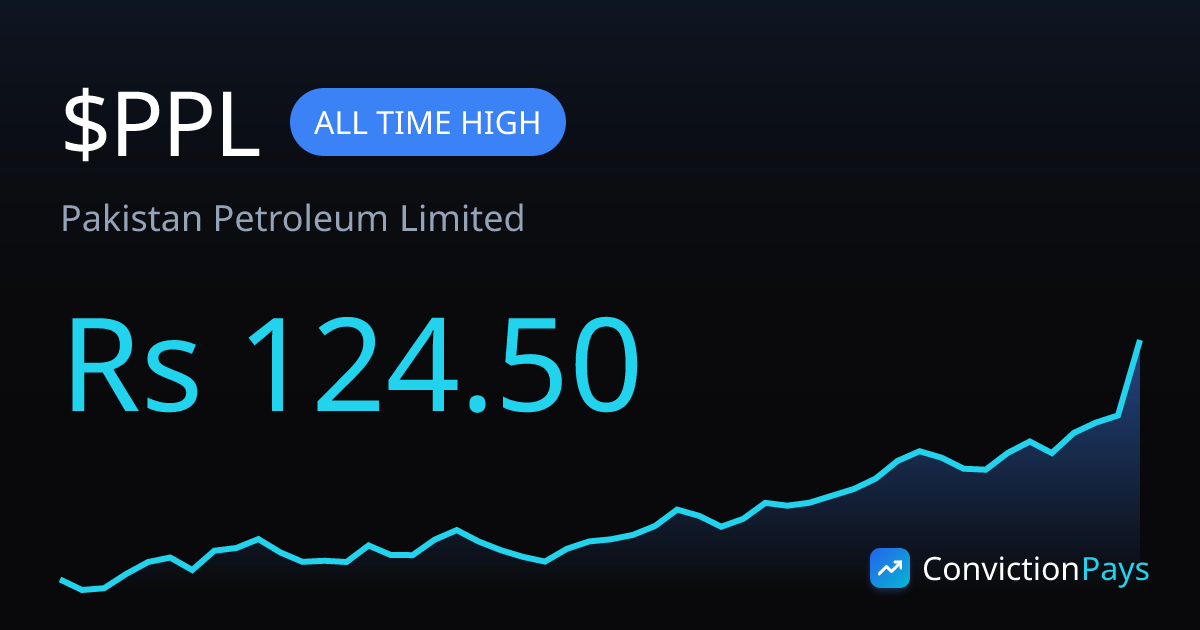
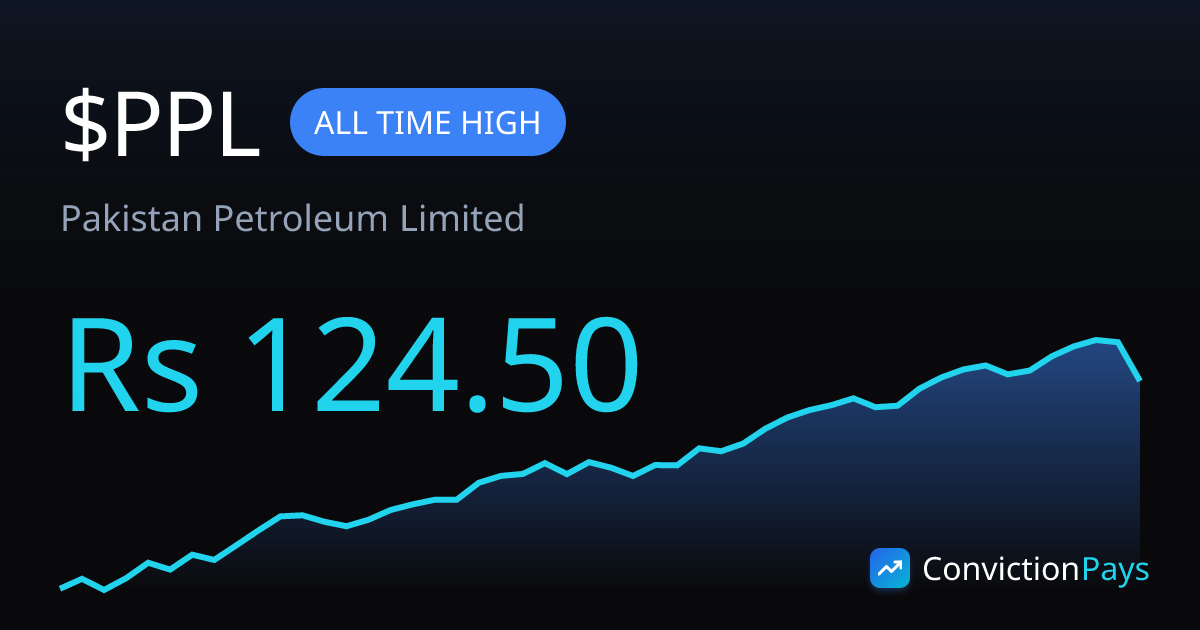
Switch chart API to nodejs and connect to real DB for price history

Changed region(s): [[0.185, 0.5127, 0.9558, 0.9048], [0.0308, 0.9048, 0.1233, 0.9651], [0.1233, 0.8746, 0.185, 0.9048]]

diff --git a/app/api/og/chart/route.tsx b/app/api/og/chart/route.tsx
@@ -1,9 +1,17 @@
 import { ImageResponse } from '@vercel/og';
 import { NextRequest } from 'next/server';
+import { Pool } from 'pg';
 
-export const runtime = 'edge';
+export const runtime = 'nodejs';
 
-// Mock data generator for testing if DB fetch fails or for simplicity
+// Re-use connection logic (Serverless friendly)
+const pool = new Pool({
+    connectionString: process.env.DATABASE_URL || process.env.POSTGRES_URL,
+    ssl: (process.env.DATABASE_URL || process.env.POSTGRES_URL || '').includes('sslmode=require') ? { rejectUnauthorized: false } : undefined,
+    max: 1 // Keep connections low for serverless
+});
+
+// Mock data generator for fallback
 function generateMockData() {
     const points = [];
     let price = 100;
@@ -22,9 +30,32 @@ export async function GET(req: NextRequest) {
         const name = searchParams.get('name') || '';
         const title = (searchParams.get('title') || 'CHART ALERT').toUpperCase();
 
-        // In a real scenario, we would fetch historical data here.
-        // For this proof-of-concept, we'll use generated data to prove the visualization.
-        const data = generateMockData();
+        // Fetch Real Data
+        let data: number[] = [];
+        try {
+            const client = await pool.connect();
+            const res = await client.query(`
+                SELECT close as price
+                FROM historical_price_data 
+                WHERE symbol = $1 
+                ORDER BY date DESC
+                LIMIT 90
+            `, [symbol]);
+            client.release();
+
+            if (res.rows.length > 10) {
+                // DB returns DESC (latest first), but chart needs ASC (oldest first)
+                data = res.rows.map(r => parseFloat(r.price)).reverse();
+            }
+        } catch (dbError) {
+            console.error('DB Fetch Error for Chart:', dbError);
+        }
+
+        // Fallback to mock if no data found
+        if (data.length === 0) {
+            console.log('Using Mock Data for Chart');
+            data = generateMockData();
+        }
 
         // SVG Logic
         const width = 1200;
